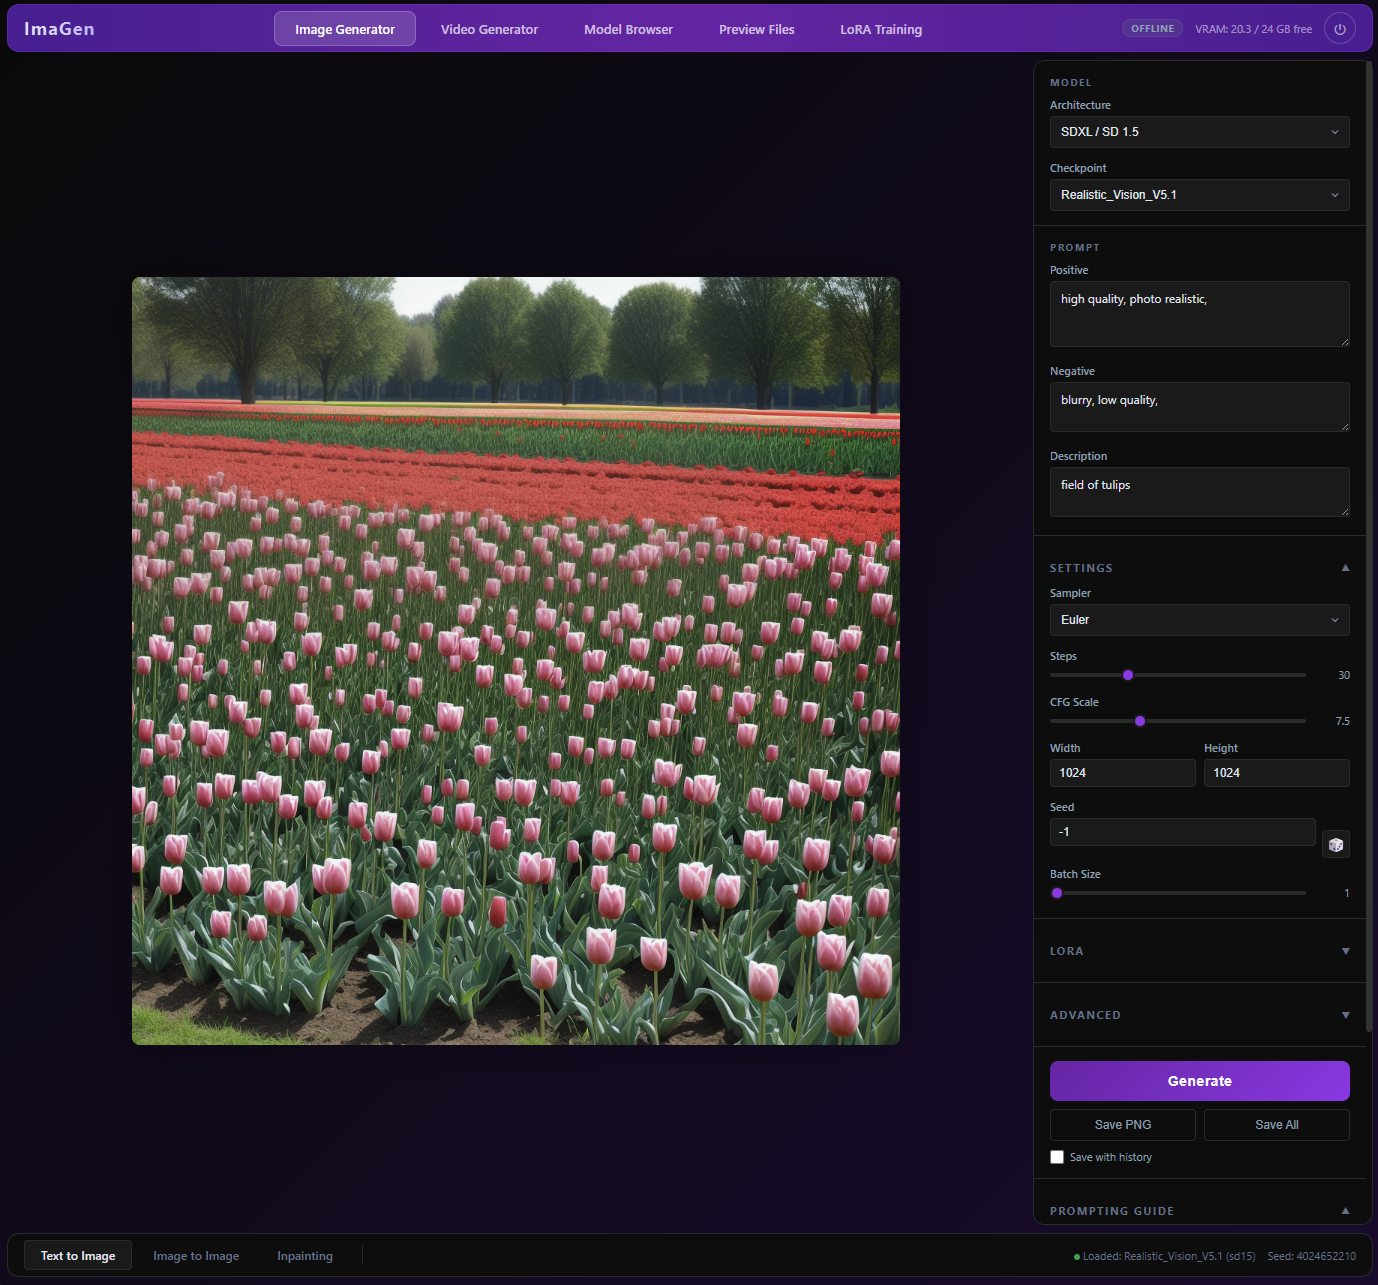
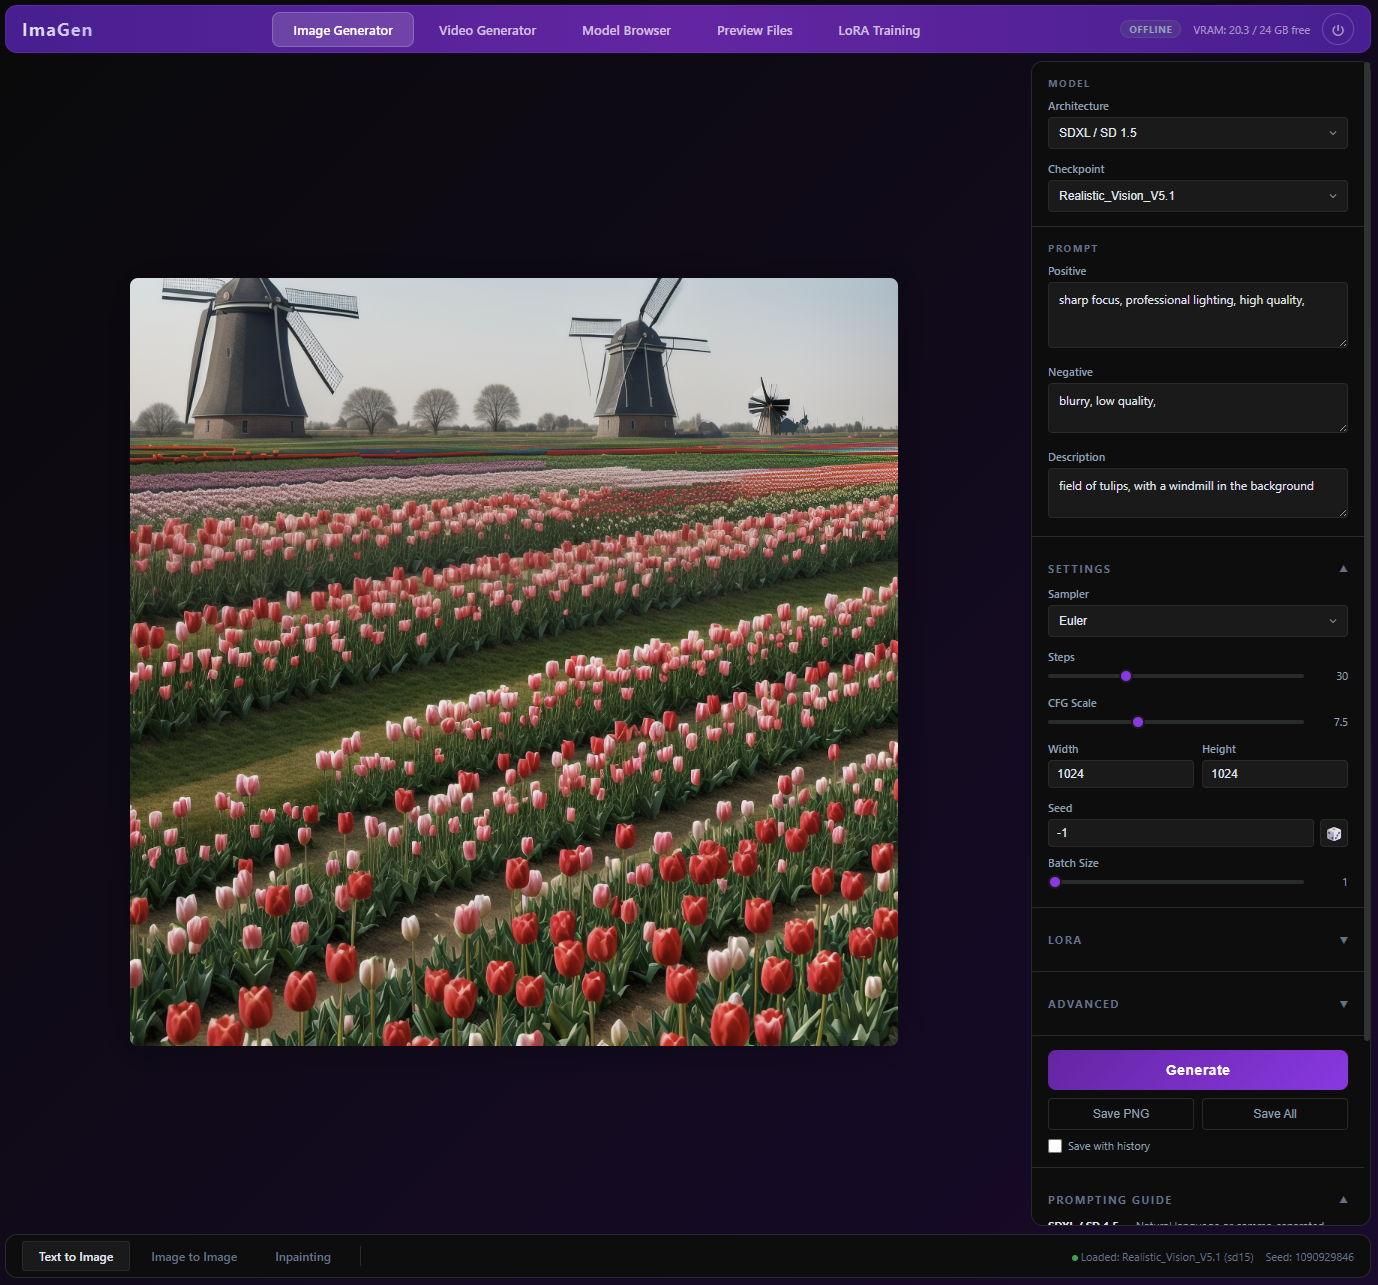
Auto-load default profile prompts on startup and fix seed dice alignment
- Load default_positive.txt and default_negative.txt into all prompt fields on page load
- Fix seed row dice button misalignment by removing form-group margin inside seed-row
- Update sample screenshot

diff --git a/static/js/app.js b/static/js/app.js
@@ -627,8 +627,8 @@ document.addEventListener('DOMContentLoaded', async () => {
   const btnProfileDelete = $('#btn-profile-delete');
   if (btnProfileDelete) btnProfileDelete.addEventListener('click', () => deleteSelectedProfile());
 
-  // Load profile list on startup
-  loadProfiles();
+  // Load profile list on startup and auto-fill default prompts
+  loadProfiles(true);
 });
 
 // ── Mode switching (top nav) ────────────────────────────────
@@ -2345,20 +2345,37 @@ function updateTrainingProgress(pct, text) {
 // PROMPT PROFILES
 // ══════════════════════════════════════════════════════════════
 
-async function loadProfiles() {
+async function loadProfiles(autoLoadDefault = false) {
   try {
     const data = await API.getProfiles();
     const sel = $('#profile-select');
     if (!sel) return;
     const current = sel.value;
     sel.innerHTML = '<option value="">Select profile...</option>';
-    (data.profiles || []).forEach(name => {
+    const profiles = data.profiles || [];
+    profiles.forEach(name => {
       const opt = document.createElement('option');
       opt.value = name;
       opt.textContent = name;
       sel.appendChild(opt);
     });
     if (current) sel.value = current;
+
+    // Auto-load default profile into all prompt fields on startup
+    if (autoLoadDefault && profiles.includes('default')) {
+      const defaults = await API.loadProfile('default');
+      const pos = defaults.positive || '';
+      const neg = defaults.negative || '';
+      // Fill all prompt textareas (t2i, i2i, inpaint)
+      ['#positive-prompt', '#i2i-positive-prompt', '#inp-positive-prompt'].forEach(id => {
+        const el = $(id);
+        if (el && !el.value) el.value = pos;
+      });
+      ['#negative-prompt', '#i2i-negative-prompt', '#inp-negative-prompt'].forEach(id => {
+        const el = $(id);
+        if (el && !el.value) el.value = neg;
+      });
+    }
   } catch (e) {
     // Not critical
   }

diff --git a/static/css/style.css b/static/css/style.css
@@ -711,7 +711,7 @@ body {
   align-items: flex-end;
 }
 
-.seed-row .form-group { flex: 1; }
+.seed-row .form-group { flex: 1; margin-bottom: 0; }
 
 .seed-row .btn-dice {
   width: 28px;
